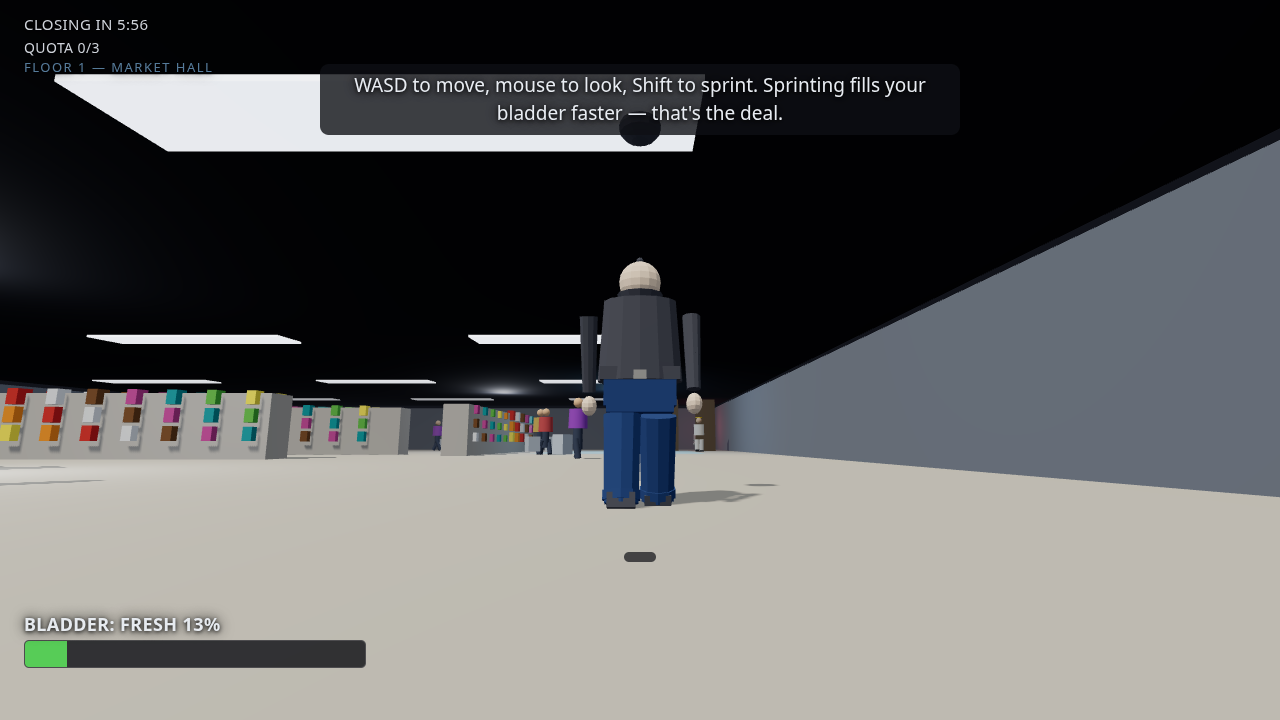
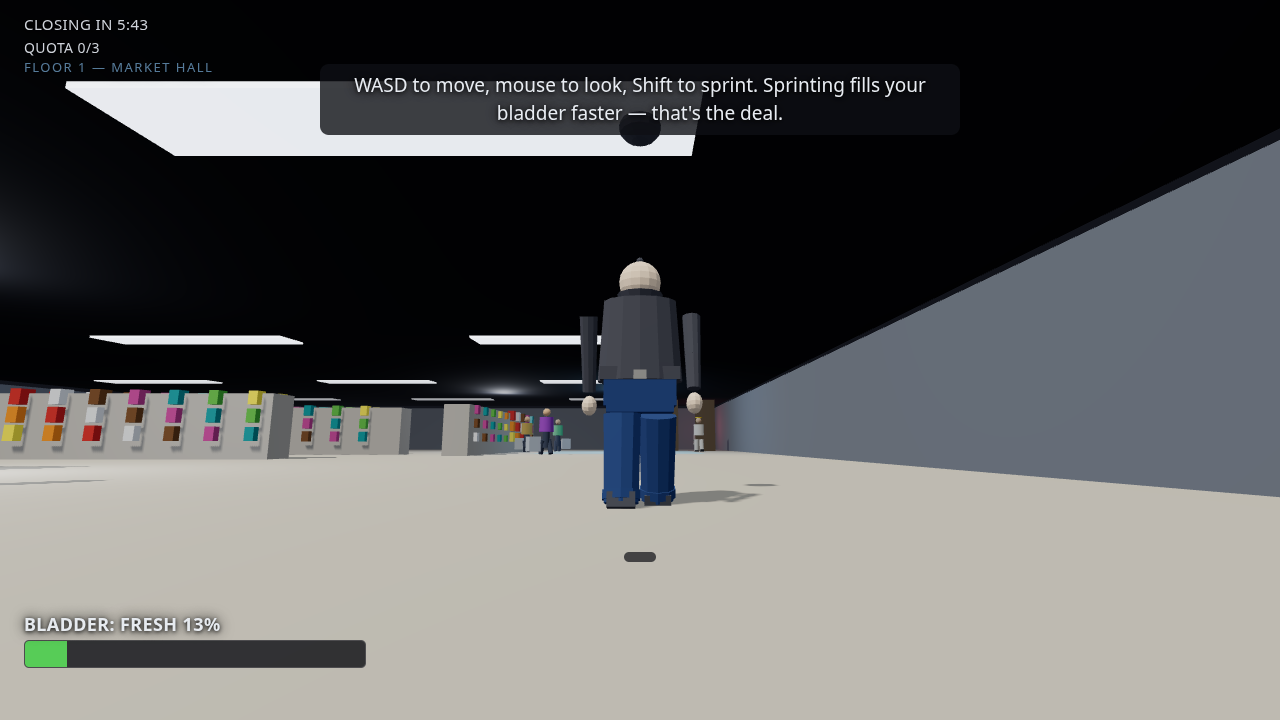
M7 The Shift Report: the run ends as a story, not a stat row — a deadpan local-news report whose every line is earned by how this shift actually went (lead-in per ending, accident tally, shed/spook folklore, legend sighting, struts, fake-shopping minutes, both-floors travel) + a desk grade per rank;

diff --git a/src/main.ts b/src/main.ts
@@ -37,6 +37,11 @@ const G = {
   seed: 4271,
   struts: 0,           // M4: dignity events
   rank: '',            // last run's rank (S/A/B/C/D)
+  // M7: shift-report story facts (how THIS run actually went)
+  legendSeen: false,   // witnessed the Prisma-incident re-enactment
+  spooks: 0,           // times staff spotted you
+  sheds: 0,            // chases you shook off by crouching out of sight
+  crouchT: 0,          // seconds spent fake-shopping
 };
 declare global { interface Window { __cap: any; __pp: any } }
 
@@ -692,6 +697,7 @@ function spooked(s: Staff, why: string): void {
   if (s.state !== 'chase') {
     s.state = 'chase';
     s.t = 4.2;
+    G.spooks++;
     toast(`Staff: "${why}"`);
     SFX.alarm();
   }
@@ -858,6 +864,7 @@ function legendStep(dt: number): void {
   const hd = Math.hypot(hero.position.x - legend.obj.position.x, hero.position.z - legend.obj.position.z);
   if (hd < 10 && !legend.seen) {
     legend.seen = true;
+    G.legendSeen = true;
     G.score += 15;
     G.pressure = Math.max(0, G.pressure - 5);
     toast('You witness the incident. The legend is real. Your bladder relaxes slightly. (+15)');
@@ -1029,6 +1036,7 @@ function startRun(seed?: number): void {
   G.pressure = 10; G.wet = false; G.runTime = 0; G.closing = 240 + Math.random() * 120;
   G.quota = 0; G.accidents = 0; G.score = 0; G.coffeeCd = 0;
   G.mods = []; G.toasts = []; G.ending = '';
+  G.legendSeen = false; G.spooks = 0; G.sheds = 0; G.crouchT = 0; // M7: story facts
   tutorialIdx = tutorialSeen ? TUTORIAL.length : 0;
   perkCoffee = 12; perkRecovery = 35; perkSprint = 0; perkSqueak = 11; perkFull = FULL;
   perksTaken.length = 0;
@@ -1079,6 +1087,51 @@ function accident(caught = false): void {
     if (d < 9) staffHear(s, hero.position.x, hero.position.z, '...was that a PEEING?');
   }
 }
+// ---------- M7: The Shift Report — the run ends as a story, not a stat row ----------
+// MTV-Uutiset voice: a local news desk reporting on one very specific shift.
+// Every line is earned by how THIS run actually went (story facts tracked on G).
+function shiftReport(ending: string, rank: string): string {
+  const L: string[] = [];
+  const wet = G.wet, acc = G.accidents, caught = ending.startsWith('CAUGHT');
+  const closed = ending.startsWith('STORE CLOSED');
+  const clean = ending.startsWith('CLEAN');
+  const wetExit = ending.startsWith('WET EXIT');
+  const quotaDone = G.quota >= G.quotaTotal;
+
+  if (caught) L.push('Local supermarket confirms a man was apprehended after a "code peed". Witnesses say he "wasn\'t even shopping hard enough."');
+  else if (closed) L.push('The lights went out mid-strut. Security describes the aftermath as "deli counter, one man, zero dignity."');
+  else if (clean && quotaDone) L.push('The man completed the entire quota, left through the car, and did not stop. Employees say they "still don\'t know how he did it."');
+  else if (wetExit) L.push('A customer was seen fleeing to the parking deck. The drive was, in the words of one cashier, "tanked."');
+  else if (acc === 0 && quotaDone) L.push('A customer quietly completed the task and left. No one saw. That is the whole story, and it is beautiful.');
+  else L.push('A man spent the entire shift looking for something. He was never, once, actually shopping. The store has been informed.');
+
+  if (acc >= 2) L.push(`Sources confirm at least ${acc} separate wet-pants incidents on one pair of jeans. "He just kept going," one employee said.`);
+  else if (acc === 1) L.push('One accident was confirmed. The jeans have been retired to the staff room and named.');
+  else if (!wet) L.push('Notably, the jeans stayed dry. "He really did not need it to happen there," said a witness who had to leave.');
+
+  if (G.sheds >= 2) L.push('The man was repeatedly seen ducking behind cereal and "becoming the nutrition label." Security could not prove what they were seeing.');
+  else if (G.sheds === 1) L.push('The man crouched once, broke line of sight, and was not found. The aisle is under review.');
+  if (G.spooks >= 2) L.push(`Staff called out "${G.spooks} times" during the shift. One said the word "security" enough to need a water break.`);
+  else if (G.spooks === 1) L.push('A staff member asked "why is this man sprinting?" exactly once. It is now store folklore.');
+
+  if (G.legendSeen) L.push('In a rare sighting, the customer witnessed the 2020 incident re-enacted in the stockroom. "It was real," they said. "My bladder relaxed."');
+  if (G.struts >= 1) L.push(`The man ${G.struts === 1 ? 'performed a confident strut' : `performed ${G.struts} confident struts`} in front of a mirror. ${G.wet ? 'The pants were soaked. The walk did not care.' : 'Dignity, briefly, was restored.'}`);
+  if (G.crouchT >= 8) L.push('The man spent a measurable amount of time crouched among the shelves, "buying seconds." The register did not see the sale.');
+  if (G.floors.size >= 2 && !caught) L.push('The man moved between the market hall and the parking deck. The elevators have filed a report.');
+
+  const grade =
+    rank === 'S' ? 'The desk gives this shift an S. "We will be remembering this one."' :
+    rank === 'A' ? 'The desk gives this shift an A. Competent, if slightly damp.' :
+    rank === 'B' ? 'The desk gives this shift a B. It happened. Everyone is over it.' :
+    rank === 'C' ? 'The desk gives this shift a C. "We could have gone either way."' :
+    'The desk gives this shift a D. "There will be a follow-up."';
+  L.push(grade);
+
+  return `<div class="report"><div class="reporthead">THE SHIFT REPORT</div>` +
+    L.map((t) => `<div class="reportline">${t}</div>`).join('') +
+    `</div>`;
+}
+
 function endRun(ending: string): void {
   if (G.mode !== 'play') return;
   G.mode = 'end';
@@ -1096,11 +1149,12 @@ function endRun(ending: string): void {
   if (G.score >= 110) rank = 'S'; else if (G.score >= 90) rank = 'A'; else if (G.score >= 70) rank = 'B'; else if (G.score >= 50) rank = 'C';
   G.rank = rank;
   checkUnlocks();
-  const pb = (() => { let best = 0; try { best = parseInt(localStorage.getItem('pp_best') || '0', 10) || 0; } catch { /* */ } const isPB = G.score > best; if (isPB) { try { localStorage.setItem('pp_best', String(G.score)); } catch { /* */ } } return { best: isPB ? G.score : best, isPB }; })();
+  const pb = (() => { let best = 0; try { best = parseInt(localStorage.getItem('pp_best') || '0') || 0; } catch { /* */ } const isPB = G.score > best; if (isPB) { try { localStorage.setItem('pp_best', String(G.score)); } catch { /* */ } } return { best: isPB ? G.score : best, isPB }; })();
   sumLbl.innerHTML =
     `<div style="font-size:14px; letter-spacing:3px; color:#8ecbffcc;">RUN COMPLETE — ${shiftName(G.seed)} SHIFT · DIFFICULTY ${diff}/5</div>` +
     `<div class="rank r${rank}">${rank}</div>` +
     `<div class="endingline">${ending}</div>` +
+    shiftReport(ending, rank) +
     `<div class="statrow"><span>Shift time</span><b>${fmt(G.runTime)}</b></div>` +
     `<div class="statrow"><span>Quota</span><b>${G.quota}/3</b></div>` +
     `<div class="statrow"><span>Accidents</span><b>${G.accidents}</b></div>` +
@@ -1144,6 +1198,7 @@ function staffStep(s: Staff, dt: number): void {
     else { s.lostClear += dt; if (s.lostClear > 0.2) s.lostT = 0; }
     if (s.lostT > 1.5) {
       s.state = 'alert'; s.t = 5; s.lostT = 0; s.wpIdx = s.wp.length;
+      G.sheds++;
       toast('The guard stops and looks around. You are a cereal aisle. You are the nutrition label.');
     }
   }
@@ -1282,6 +1337,13 @@ window.__cap = {
     const c = (m as THREE.MeshStandardMaterial).color;
     return [Math.round(c.r * 255), Math.round(c.g * 255), Math.round(c.b * 255)];
   },
+  // M7: shift-report probing — set story facts, force-end, read the rendered report
+  facts: (o: Record<string, number | boolean | Set<number>>) => { Object.assign(G, o); },
+  finish: (ending: string) => { if (G.mode === 'play') endRun(ending); },
+  report: () => ({
+    head: !!document.querySelector('.reporthead'),
+    lines: Array.from(document.querySelectorAll('.reportline')).map((el) => el.textContent || ''),
+  }),
 };
 window.__pp = window.__cap;
 
@@ -1560,6 +1622,7 @@ function step(): void {
     hero.position.lerp(new THREE.Vector3(player.x, 0, player.z), Math.min(1, 24 * dt));
     // M6: fake-shopping — the hero actually ducks: squish + forward lean (shelves read crouchScale)
     crouchScale += ((crouching ? 0.55 : 1) - crouchScale) * Math.min(1, 8 * dt);
+    if (isCrouched()) G.crouchT += dt; // M7: story fact — seconds spent pretending to shop
     hero.scale.y = crouchScale;
     hero.rotation.x = (1 - crouchScale) * 0.85;
     const hop = st === 3 && !relieving && moving ? Math.abs(Math.sin(t * 10)) * 0.045 : 0;

diff --git a/index.html b/index.html
@@ -35,9 +35,16 @@
     font-size:19px; opacity:0; text-align:center; max-width:88vw;
     background:#0e0f14c9; padding:8px 18px; border-radius:9px; line-height:1.45; }
   .summary { position:absolute; top:50%; left:50%; transform:translate(-50%,-50%); width:min(600px, 92vw);
+    max-height:92vh; overflow-y:auto;
     text-align:center; font-size:20px; line-height:1.75;
     background:#0b0c11f2; border:1px solid #ffffff14; border-radius:14px;
     padding:30px 30px 26px; box-shadow:0 0 44px #000c; }
+  .report { margin:4px auto 16px; max-width:520px; text-align:left;
+    background:#12141c; border-left:3px solid #e67a14; border-radius:8px; padding:14px 18px 12px; }
+  .reporthead { font-size:12px; font-weight:800; letter-spacing:4px; color:#e67a14; margin-bottom:8px; }
+  .reportline { font-size:14.5px; line-height:1.5; color:#dfe3ec; padding:4px 0;
+    border-bottom:1px dashed #ffffff12; }
+  .reportline:last-child { border-bottom:none; color:#f2c40e; }
   .rank { font-size:96px; font-weight:900; line-height:1; letter-spacing:0; margin:6px 0 2px; }
   .rS { color:#f2c40e; text-shadow:0 0 26px #f2c40e88; }
   .rA { color:#57cc57; } .rB { color:#5ab8f2; } .rC { color:#d9d94d; } .rD { color:#e64433; }

diff --git a/docs/GDD.md b/docs/GDD.md
@@ -123,6 +123,7 @@ are the character.
 | 5 | Polish — Blender hero model (cap/jeans/belt per reference), lighting pass, sound design pass, juice (screen shake, hit-stop on splash), run summary screen, tutorial moments | **DONE** (M5) |
 | 6 | **Pressure interlocks** — sprinting costs bladder (bouncy legs fill faster), panic fill when hunted (staff alert +0.5 / chase +1.3 tiers, the GDD's "panic (being spotted)" pillar), the loop closes: every escape tool is itself pressure | **DONE** (M6a) |
 | 7 | **Fake-shopping (crouch/sneak)** — hold C: slow walk, bladder buys seconds (−0.4/s), forward-lean + knee-bend duck animation, real line-of-sight vs shelf geometry (a crouched hero is a cereal aisle), patrol spook range shrinks, break LOS 1.5s behind cover to shed a chase. The counterweight: sprint costs, hiding buys | **DONE** (M6b) |
+| 8 | **The Shift Report** — the run ends as a story, not a stat row: a deadpan local-news report whose every line is earned by how THIS shift actually went (lead-in per ending, accident tally, shed/spook folklore, the legend sighting, struts, fake-shopping minutes, both-floors travel) + a desk grade per rank. The GDD's last "Memorable" pillar: a run that ends in a story | **DONE** (M7) |
 
 **Build order discipline:** fun mechanic > playable prototype > game feel > polish > content.
 A feature that doesn't make the bladder loop more interesting gets cut.
